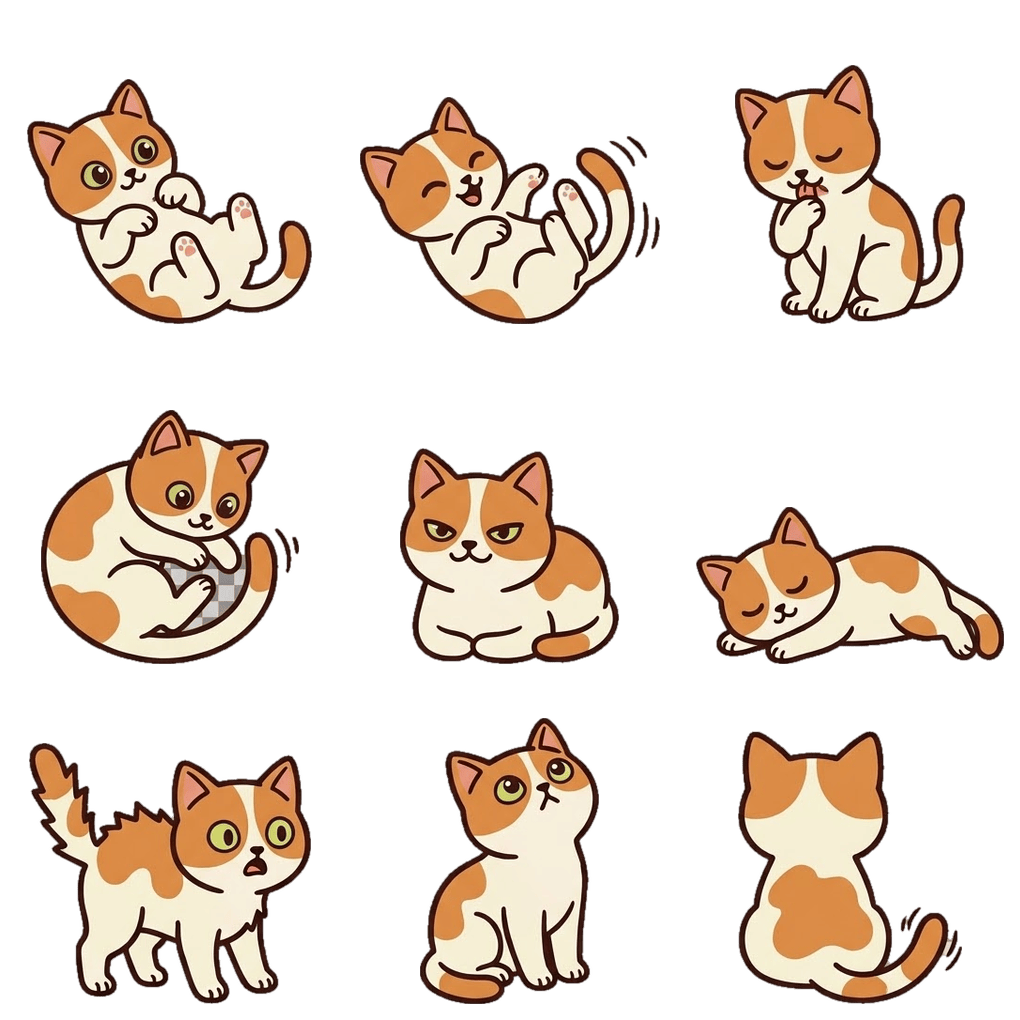
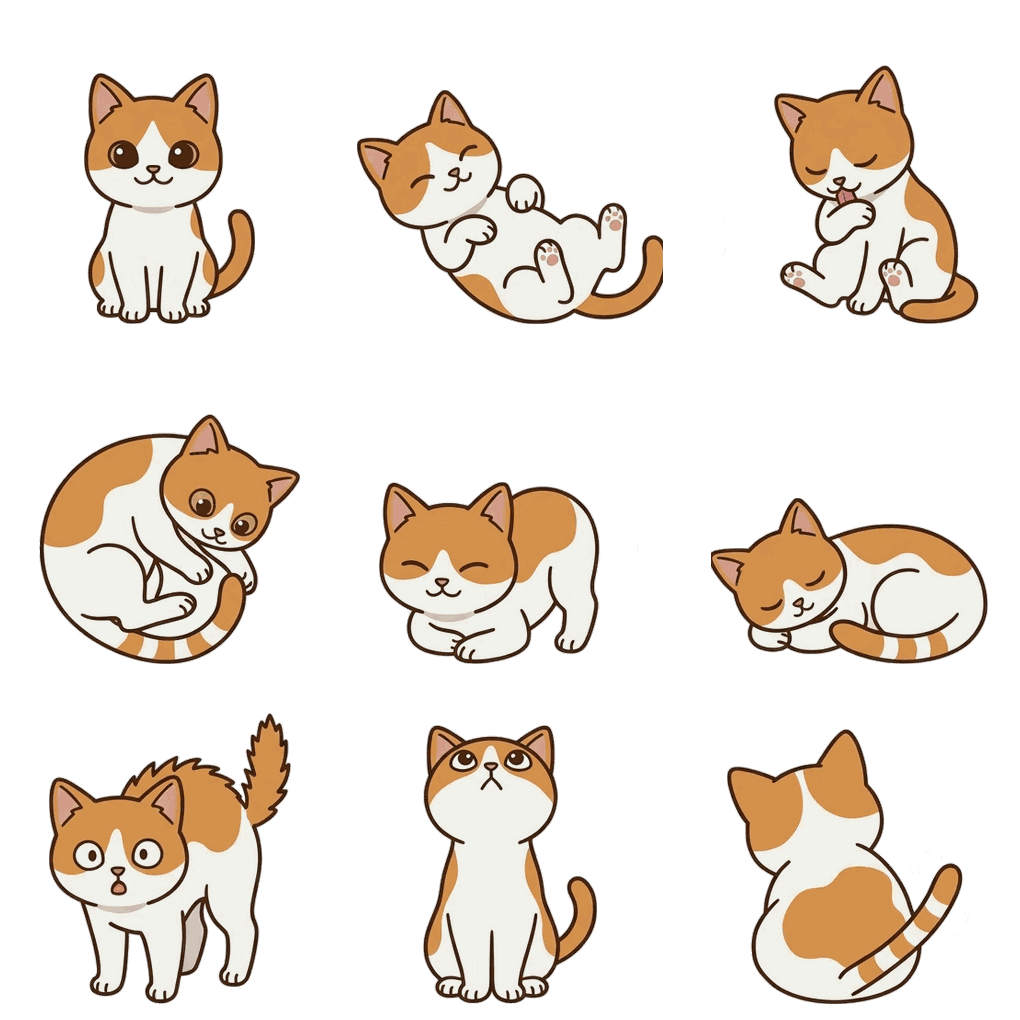
猫の絵8まいを女の子たちと同じ画風に作りなおし
- 4柄 × 2まい（お世話の9ポーズ・ひとりでいるとき）を差しかえ。ちがったマスは
  足りないポーズだけ作ってもらい、きじとらの表の面積のわりあいで大きさを合わせて差しこんだ
- build_cat_sheet.py で8まい共通の縮尺（0.9029）にそろえ、マスのはしの小さなかけらを除去
- エンドレスモードの .cat-stage の幅を縮尺に合わせて広げ、見た目の大きさを変えない
- make_icons.py でアイコンを新しい猫で作りなおし
- 合計 約1.9MB → 約0.84MB

Claude-Session: https://claude.ai/code/session_01Bj3LwHRgoChUsYsssWDaxt

diff --git a/app/style.css b/app/style.css
@@ -277,7 +277,7 @@ body {
   left: 50%;
   bottom: 8%;
   transform: translateX(-50%);
-  width: min(60vw, 320px);
+  width: min(62vw, 332px);   /* 猫の 絵の 縮尺 0.9029 に あわせた はば（前は 0.9373 で 60vw / 320px） */
   display: flex;
   flex-direction: column;
   align-items: center;
@@ -778,7 +778,7 @@ body {
 @media (max-height: 620px) {
   .room { min-height: 130px; }
 
-  .cat-stage { width: min(34vw, 180px); }
+  .cat-stage { width: min(35vw, 187px); }
 
   .status__value { font-size: clamp(30px, 7vw, 44px); }
 
@@ -823,7 +823,7 @@ body {
   .room { min-height: 96px; }
 
   /* よこむきでは 画面の たかさが きめてなので vh で 大きさを きめる */
-  .cat-stage { width: min(22vh, 150px); }
+  .cat-stage { width: min(22.8vh, 156px); }
 
   .room-button {
     min-height: 48px;

diff --git a/docs/cat-sprite-prompt-v2.md b/docs/cat-sprite-prompt-v2.md
@@ -1,5 +1,9 @@
 # 猫の 絵を 作りなおす プロンプト（女の子たちと 画風を そろえる 版）
 
+> **2026-09 に この プロンプトで 8まい 作りなおし、使用中。** 生成AIは 1まいめ（お世話の 9ポーズ）に 2まいめの ポーズを まぜがちだったので、
+> ちがった マスだけ「足りない ポーズを 横1列で」作って もらい、きじとらの 表の ポーズごとの 面積の わりあいで 大きさを あわせて 差しこんだ。
+> そのあと 8まい いっしょに `tools/build_cat_sheet.py` に 通し（共通の 縮尺 0.9029）、マスの はしに のこった 小さな かけらを 取りのぞいた。
+
 4柄 × 2まい ＝ **8まい** です。どれも 次の 2つを 添付して 送ります。
 
 - `style-reference.png` … タイトル画面の 絵から 切り出した、女の子たちと 猫（**画風の 見本**）

diff --git a/README.md b/README.md
@@ -220,7 +220,7 @@ Settings → Pages → Source: `Deploy from a branch` → Branch: `main` / `/ (r
 2枚目の有無は `main.js` の `CAT_PATTERNS` の `relax` で持っています。`false` の柄では
 2枚目が必要なポーズを自動的に飛ばすので、絵が足りなくても破綻しません。
 
-8枚すべて**同じ縮尺（0.9373倍）・同じ立ち位置**に揃えてあるため（各セルの下端・横中心の差が0px）、
+8枚すべて**同じ縮尺（0.9029倍）・同じ立ち位置**に揃えてあるため（各セルの下端・横中心の差が0px）、
 シートやポーズをまたいでも猫の大きさと足の位置は変わりません。
 
 縮尺が変わったときは、画面上の大きさが変わらないよう `style.css` の `.cat-stage` の幅を
